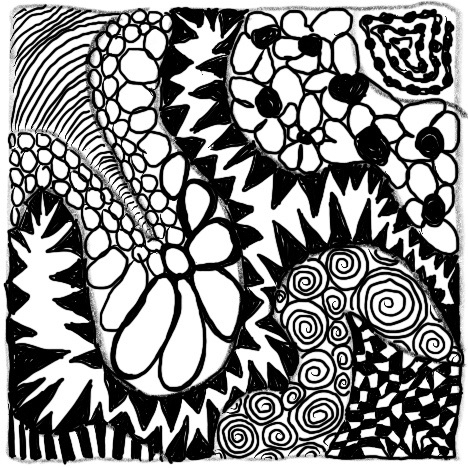
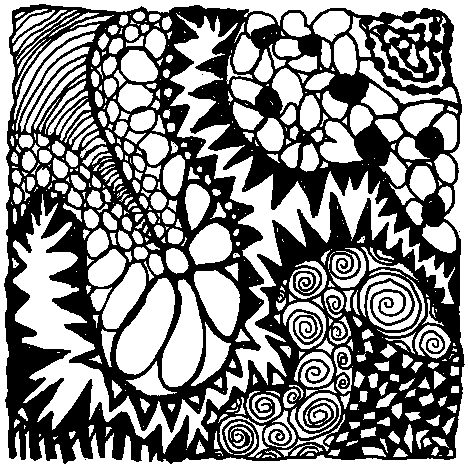
update

diff --git a/Projects-3DPrinting/Kronkels/sketch.js b/Projects-3DPrinting/Kronkels/sketch.js
@@ -17,7 +17,7 @@ var start;
 
 var issaved;
 var isready;
-var model;
+var model1, model2;
 
 
 var name;
@@ -38,7 +38,8 @@ var oldlen, len;
 
 
 function preload() {
-    model = loadImage("images/zen02.png");
+    model1 = loadImage("images/kronkel3.png");
+    model2 = loadImage("images/kronkel4.png");
 
 }
 
@@ -46,16 +47,19 @@ function setup() {
 
     var canvas = createCanvas(1100, 1100);
     isready = false;
-    model.resize(1000, 1000);
+    model1.resize(1000, 1000);
+    model2.resize(1000, 1000);
     offset = createVector(50, 50);
 
     stroke(0);
 
-    image(model, offset.x, offset.y);
-    model.loadPixels();
+    image(model1, offset.x, offset.y);
+    image(model2, offset.x, offset.y);
+    model1.loadPixels();
+    model2.loadPixels();
 
     //kleur van de achtergrond
-    acolor = new Rgb(model.pixels[0], model.pixels[1], model.pixels[2]);
+    acolor = new Rgb(255,255,255);
     ablack = new Rgb(0, 0, 0);
     ared = new Rgb(255, 0, 0);
     windowscale = 1;
@@ -66,28 +70,16 @@ function setup() {
     layer = 0;
     maxlayers = 1;
     var startlayerheight = 0.5; // 1
-    print3D = new Print3D("Kronkels-", "Anet", "PLAFLEX", "normal", maxlayers, startlayerheight);
+    print3D = new Print3D("Zen01-", "Anet", "PLAFLEX", "normal", maxlayers, startlayerheight);
 
 
     dx = [0, 1, 1, 1, 0, -1, -1, -1];
     dy = [-1, -1, 0, 1, 1, 1, 0, -1];
 
-
-
-    start = createVector(550, 50);
     oldlen = 0;
     len = 11;
-   // zoekLangstePad(start);
-    //len = printpath.length;
-
-    //drawPath(printpath);
    
-   // model.updatePixels();
-    image(model, offset.x, offset.y);
-
-
-
-
+   
     issaved = false;
     tcount = 0;
 
@@ -98,35 +90,53 @@ function setup() {
 
 function draw() {
 
-    if ((len - oldlen > 10) && frameCount < 40) {
+    if (layer== 0 &&(len - oldlen > 10) && frameCount < 40) {
         
-        zoekLangstePad(start);
+        zoekLangstePad(model1, start);
         start = printpath[printpath.length - 1].copy();
         oldlen = len;
         len = printpath.length;
-        drawPath(printpath);
+        drawPath(model1, printpath);
         console.log(len);
-        model.updatePixels();
-        image(model, offset.x, offset.y);
+        model1.updatePixels();
+        image(model1, offset.x, offset.y);
         showPoint(last, color(255, 0, 0));
+        
+        start = printpath[printpath.length - 1].copy();
 
-
-    } else {
+    }
+    else if(frameCount == 40 || (len - oldlen <= 10)){
+        //reset
+        len = 11;
+        oldlen = 0;
+       
+      } 
+    else if( (len - oldlen > 10) &&  frameCount < 80){
+        //other model
+        start = printpath[printpath.length - 1].copy();
+        zoekLangstePad(model2, start);
+        start = printpath[printpath.length - 1].copy();
+        oldlen = len;
+        len = printpath.length;
+        drawPath(model2, printpath);
+        console.log(len);
+        model2.updatePixels();
+        image(model2, offset.x, offset.y);
+        showPoint(last, color(255, 0, 0));
+    } 
+    else {
         if (layer < maxlayers) {
             print3D.start();
             printpath = print3D.optimizePath(printpath, 5);
 
             if (layer % 2 == 0) {
                 print3D.addToLayer(layer, printpath, offset, true);
-                
             } else {
                 print3D.addToLayer(layer, reversePath(printpath), offset, true);
-                
             }
             background(255);
             print3D.print(layer);
-            fill(255,0,0);
-            ellipse(printpath[printpath.length - 1].x + offset.x, printpath[printpath.length - 1].y + offset.y, 10,10);
+            
 
         }
         if (layer + 1 == maxlayers) {
@@ -143,28 +153,28 @@ function draw() {
 
 }
 
-function zoekLangstePad(start) {
+function zoekLangstePad(model, start) {
 
-    reloadModel();
+    reloadModel(model);
 
     //begin met een nieuwe start positie
     if (printpath.length == 0) {
-        start = createVector(550, 50);
+        start = createVector(50, 50);
     } else {
         start = printpath[printpath.length - 1].copy();
     }
-
-    last = findStart(start);
+    ellipse(start.x, start.y, 20,20);
+    last = findStart(model, start);
 
     if (last.x != 999 && last.y != 999) {
 
         var loop = 0;
-        while (loop < 100 && last.x < 999 && last.y < 999) {
+        while (loop < 10 && last.x < 999 && last.y < 999) {
             path = [];
-            path = findPath(last, 5000);
+            path = findPath(model, last, 5000);
             if (path.length <= 1) {
                 loop++;
-                last = findStart(last);
+                last = findStart(model, last);
                 if (last.x == 999 && last.y == 999) {
                     loop = 100;
                     path = [];
@@ -177,7 +187,7 @@ function zoekLangstePad(start) {
 
 }
 
-function reloadModel() {
+function reloadModel(model) {
     model.loadPixels();
     for (var i = 0; i < model.pixels.length; i += 4) {
         //rood wordt weer zwart
@@ -202,7 +212,7 @@ function reversePath(path) {
     return reverse;
 }
 
-function findPath(p, maxdepth) {
+function findPath(model, p, maxdepth) {
     var i = (p.y * 1000 * 4) + (p.x * 4);
     model.pixels[i] = 255;
     model.pixels[i + 1] = 0;
@@ -217,7 +227,7 @@ function findPath(p, maxdepth) {
         var np = p.copy().add(dx[b], dy[b]);
         var npi = (np.y * 1000 * 4) + (np.x * 4);
         if (maxdepth > 0 && model.pixels[npi] < 50 && model.pixels[npi + 1] < 50 && model.pixels[npi + 2] < 50) {
-            subpath[b] = findPath(np, maxdepth - 1);
+            subpath[b] = findPath(model, np, maxdepth - 1);
 
         }
 
@@ -291,7 +301,7 @@ function getMaxPath() {
 
 }
 
-function drawPath(path) {
+function drawPath(model, path) {
     let i;
     let n;
     for (n = 0; n < path.length; n++) {
@@ -331,7 +341,7 @@ function contains(a, obj) {
     return false;
 }
 
-function checkColor(pos) {
+function checkColor(model, pos) {
     let found = false;
     let i = (pos.y * 1000 * 4) + (pos.x * 4);
     let c = new Rgb(model.pixels[i], model.pixels[i + 1], model.pixels[i + 2]);

diff --git a/Projects-3DPrinting/Kronkels/index.html b/Projects-3DPrinting/Kronkels/index.html
@@ -1,0 +1,34 @@
+<!DOCTYPE html>
+<html>
+
+<head>
+    <title>Zen</title>
+    <META NAME="COPYRIGHT" CONTENT="&copy; Ria Stroes">
+    <META HTTP-EQUIV="PRAGMA" CONTENT="NO-CACHE">
+
+    <meta charset="UTF-8">
+    <meta name="viewport" content="width=device-width, initial-scale=1">
+    <link rel="stylesheet" href="/RS-2017/libraries/w3.css">
+    <script src="/RS-2017/libraries/google.js" type="text/javascript"></script>
+    <script src="/RS-2017/functions.js" type="text/javascript"></script>
+    <script src="/RS-2017/libraries/p5.min.js" type="text/javascript"></script>
+    <script src="/RS-2017/libraries/p5.dom.min.js" type="text/javascript"></script>
+    <script src="/RS-2017/libraries/hsluv.min.js" type="text/javascript"></script>
+    <script src="/RS-2018/mylibrary/color.js" type="text/javascript"></script>
+    <script src="/RS-2018/mylibrary/rgb.js" type="text/javascript"></script>
+    <script src="/RS-2018/myPrint3DLibrary/gcode.js" type="text/javascript"></script>
+    <script src="/RS-2018/myPrint3DLibrary/layer.js" type="text/javascript"></script>
+    <script src="/RS-2018/myPrint3DLibrary/print3D.js" type="text/javascript"></script>
+    <script src="/RS-2018/myPrint3DLibrary/settings.js" type="text/javascript"></script>
+   
+    <script src="sketch.js" type="text/javascript"></script>
+
+
+
+</head>
+
+<body>
+
+</body>
+
+</html>

diff --git a/myPrint3DLibrary/layer.js b/myPrint3DLibrary/layer.js
@@ -22,7 +22,7 @@ Layer.prototype.addPattern = function(pos, path) {
         //skirt
         append(this.p, createVector(150,30,0) );
         append(this.p, createVector(750,40,0) );
-        append(this.p, createVector(550,50,0) );
+        append(this.p, createVector(50,50,0) );
     }
 
     for (var i = 0; i < path.length; i++) {
@@ -113,7 +113,7 @@ Layer.prototype.generate = function(layer, gcode) {
         }
 
         if (this.p[i].z == -1) { //transport
-            d -= (2* pull);
+            d -= pull;
             gcode.extrude += (d * this.thickness);
             append(this.commands, "G0 E" + gcode.extrude);
             append(this.commands, "G0 X" + x + " Y" + y );
@@ -123,7 +123,7 @@ Layer.prototype.generate = function(layer, gcode) {
             if(i > 0){
                 if(this.p[i-1].z == -1){
                     //beginpunt na een move
-                    d += pull;
+                    d = pull;
                     gcode.extrude += (d * this.thickness);
                     append(this.commands, "G1 X" + x + " Y" + y + " Z" + nz + " E" + gcode.extrude);
                 }

diff --git a/myPrint3DLibrary/settings.js b/myPrint3DLibrary/settings.js
@@ -226,10 +226,10 @@ Settings.prototype.initMaterial = function() {
                 this.scale = 0.20; //canvas = 1100 px, bed = 220 mm
                 this.filement = 2.85;
                 if ((this.material == "PLA" || this.material == "PLAz") && this.style == "fine") {
-                    this.initStyle(0.3, 0.04, 1600); // test dunner
+                    this.initStyle(0.3, 0.04, 1200); // test dunner
                 }
                 if ((this.material == "PLA" || this.material == "PLAz") && this.style == "normal") {
-                    this.initStyle(0.3, 0.1, 2400); // ok getest in knitting app  // ok getest in DUBAI KNITTING APP
+                    this.initStyle(0.3, 0.1, 1600); // ok getest in knitting app  // ok getest in DUBAI KNITTING APP
                 }
                 if (this.material == "PLAFLEX" && this.style == "fine") {
                     this.initStyle(0.2, 0.5, 800); // ok getest in knitting app  // ok getest in DUBAI KNITTING APP
